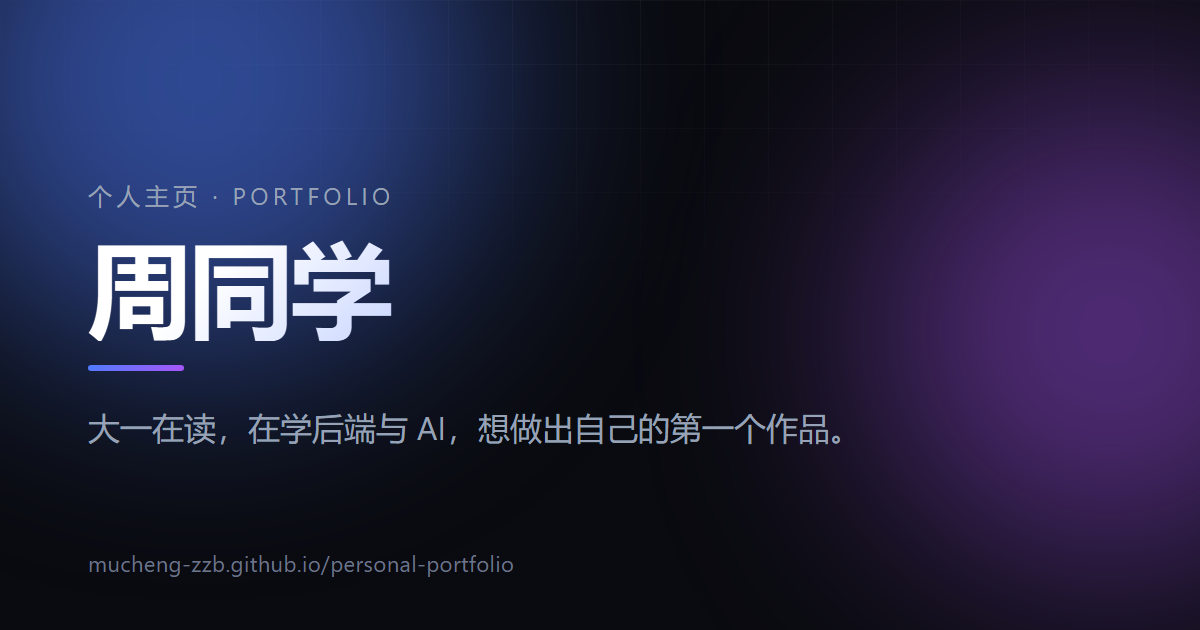
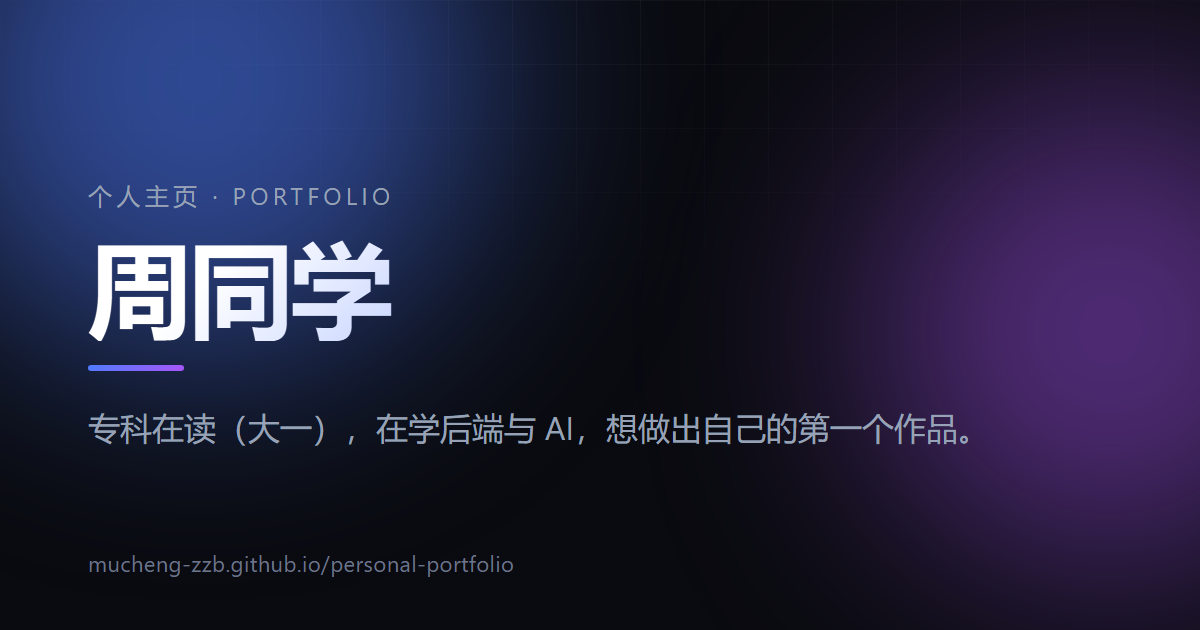
chore: 重新生成 OG 分享图（文案同步为「专科在读（大一）」）
- web/build/og-card.html：tagline 同步；并把 .tagline 的 max-width 从 880px 放宽到 1000px。
  新文案比旧的长 4 个字，880px 下会换行且第二行只剩「品。」两个字 —— 分享卡片上很难看。
  内容区实际宽度是 1200 − 88×2 = 1024px，1000px 既放得下一行又不会贴边。
- web/public/images/og.png：按 README 里的命令重新截图。

验证：
- 尺寸仍为 1200×630（读 PNG 头的 IHDR），177.3 KB → 179.7 KB
- 与 git 里的旧图逐字节不同（Buffer.compare ≠ 0），即文案确实进去了
- 肉眼核对新图：定位语已是一行「专科在读（大一），在学后端与 AI，想做出自己的第一个作品。」

Changed region(s): [[0.185, 0.6333, 0.8017, 0.7238], [0.0617, 0.6635, 0.1233, 0.7238]]

diff --git a/web/build/og-card.html b/web/build/og-card.html
@@ -108,7 +108,10 @@
         font-size: 32px;
         line-height: 1.5;
         color: #98a2b6;
-        max-width: 880px;
+        /* 内容区实际宽度 = 1200 − 88×2 = 1024px。
+           这里要给足，让定位语【一行放得下】—— 差一点点就换行的话，
+           第二行只会剩两三个字，分享出去很难看（改文案后重新截图时留意）。 */
+        max-width: 1000px;
       }
 
       .rule {
@@ -139,7 +142,7 @@
       <p class="eyebrow">个人主页 · PORTFOLIO</p>
       <h1 class="name">周同学</h1>
       <div class="rule"></div>
-      <p class="tagline">大一在读，在学后端与 AI，想做出自己的第一个作品。</p>
+      <p class="tagline">专科在读（大一），在学后端与 AI，想做出自己的第一个作品。</p>
       <p class="url">mucheng-zzb.github.io/personal-portfolio</p>
     </div>
   </body>
